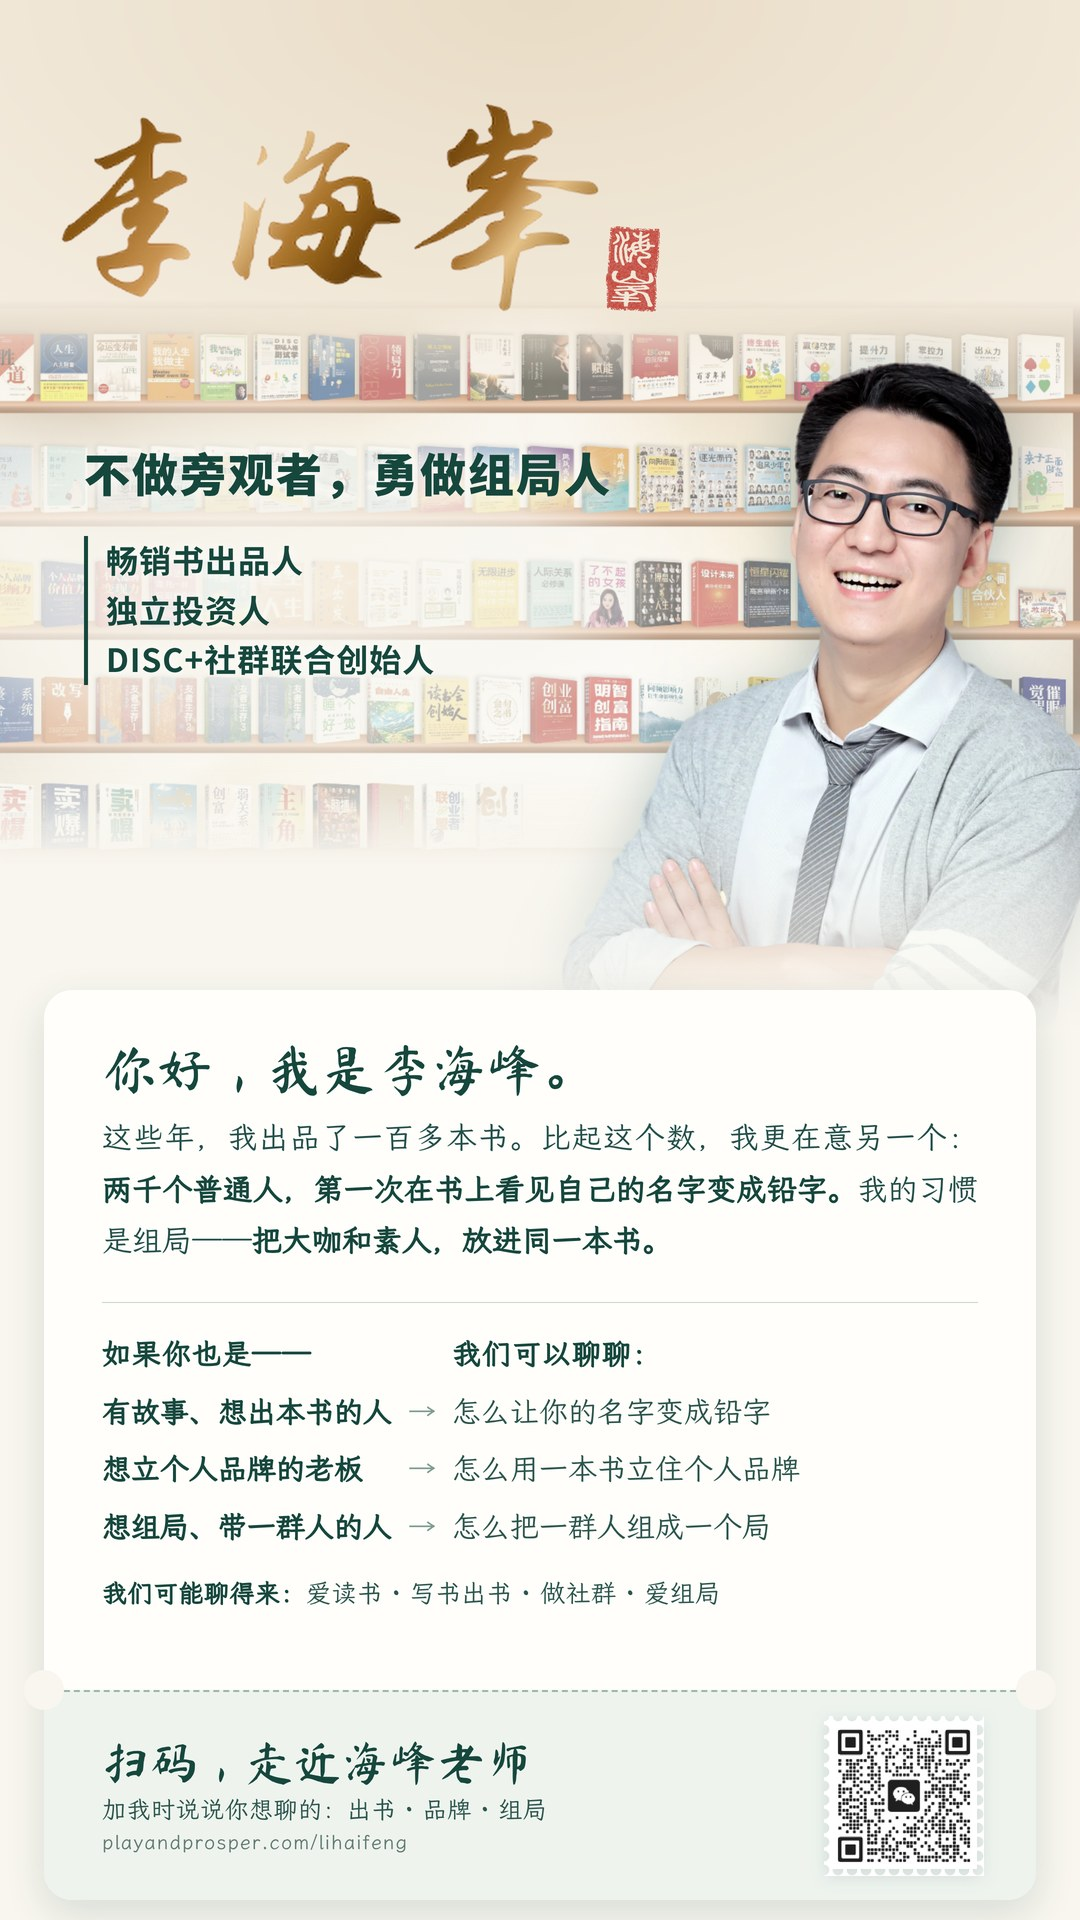
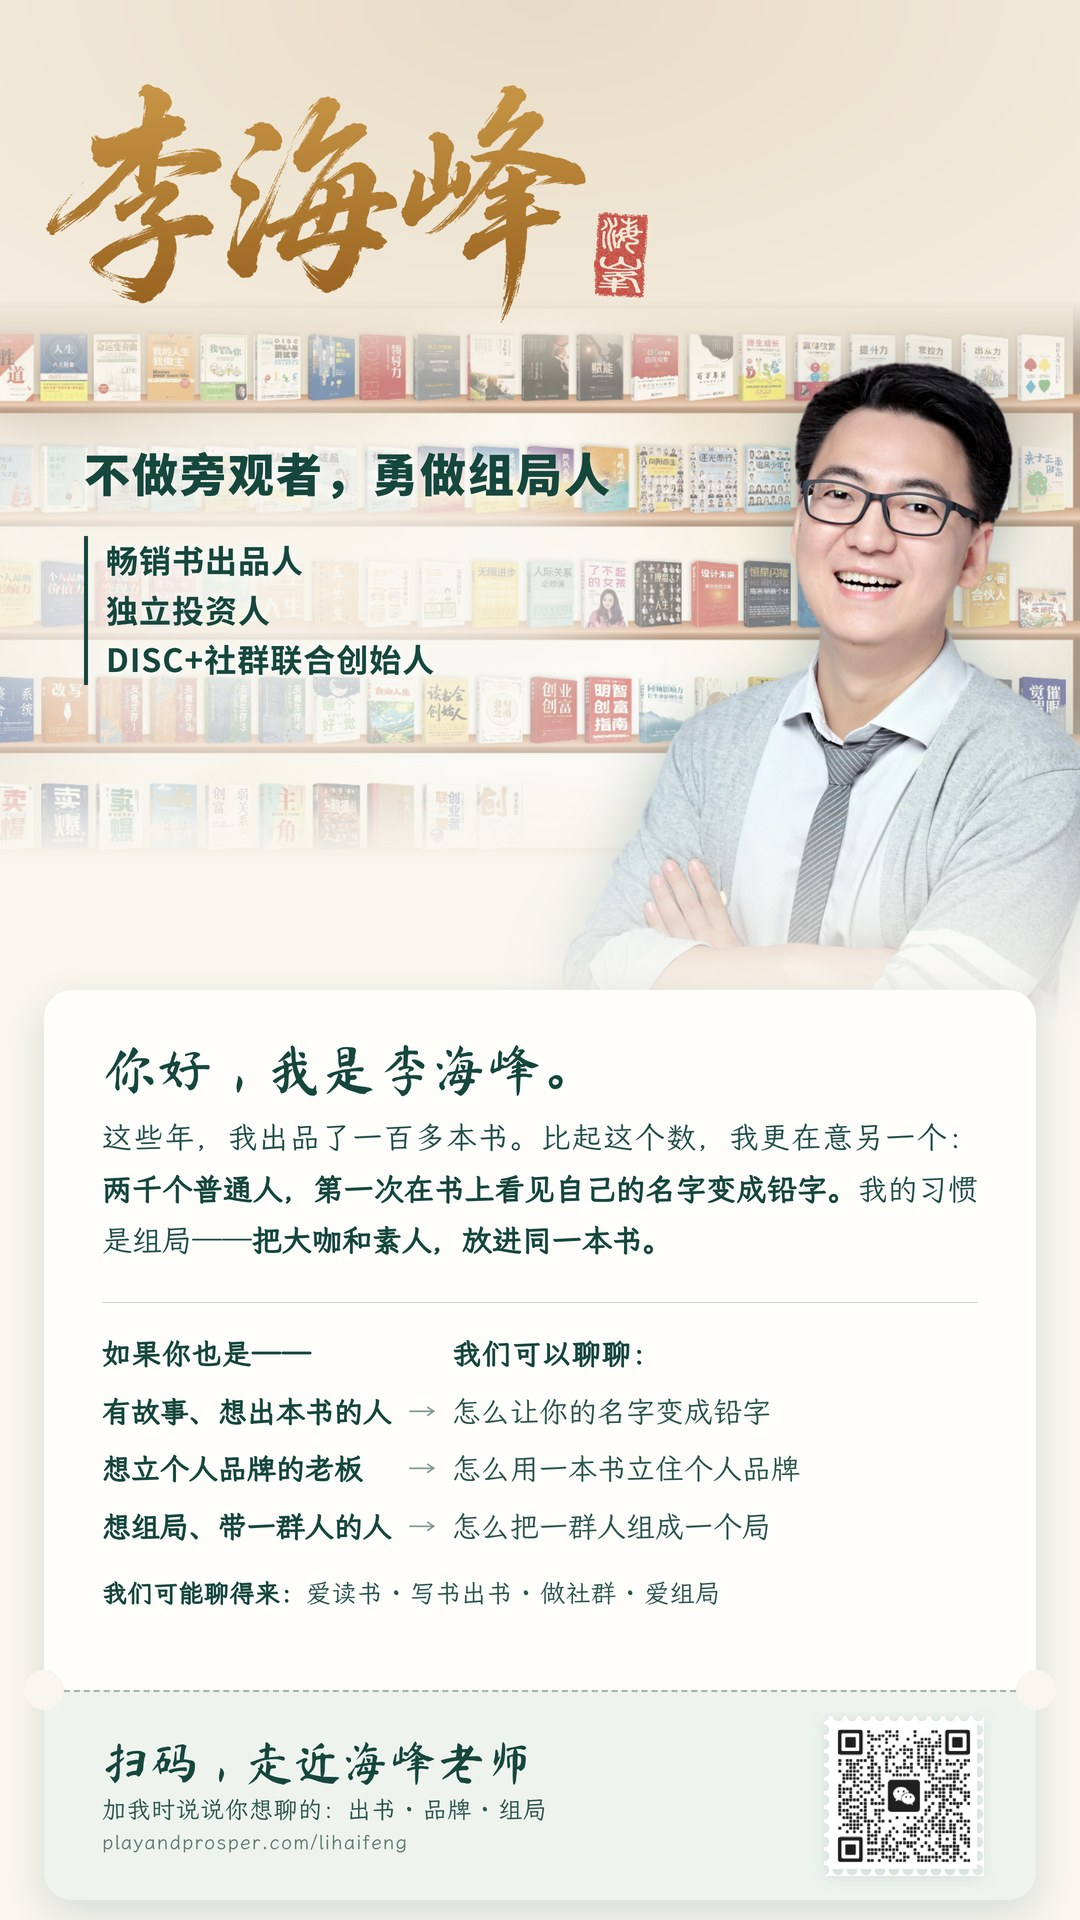
海峰老师主页：书法名字换成「峰」左山右夆的新写法（第一屏、页脚落款），人生卡和个人名片换成千百合 11-20 改字后的新版
Claude-Session: https://claude.ai/code/session_01BfepyGSHVDQz4j4958TxbY

Changed region(s): [[0.0306, 0.0312, 0.6111, 0.1875]]

diff --git a/v2/lihaifeng/index.html b/v2/lihaifeng/index.html
@@ -504,7 +504,7 @@ h2 em{display:inline-block}
   <div class="w in">
     <div class="txt">
       <div class="k">边玩边赚书系 · 出品人 · 主编</div>
-      <div class="nm"><img class="n" src="name2.png" alt="李海峰"><img class="s" src="seal2.png" alt=""></div>
+      <div class="nm"><img class="n" src="name3.png" alt="李海峰"><img class="s" src="seal2.png" alt=""></div>
       <div class="en">LI HAIFENG</div>
       <h1>出品了<em>一百多本书</em><span style="white-space:nowrap">的主编</span></h1>
       <p class="sub">一百多本书，是他的作品。<br>两千个第一次出书的人，是他更在意的事。</p>
@@ -736,11 +736,11 @@ h2 em{display:inline-block}
     <div class="kick rv"><i class="yin">陆</i>带走一张他</div>
     <h2 class="rv">人生卡，和一张<em>名片</em></h2>
     <div class="g2">
-      <figure class="tk rv"><span class="tag">入场券 №书4-00</span><div class="in" data-big="card.jpg?v=20261120d"><img src="card.jpg?v=20261120d" alt="李海峰的人生卡：今天遇见谁，你怎么活，世界就怎么记住你" loading="lazy" width="1080" height="1920"></div><figcaption><b>人生卡</b>书四 · 序：先活，再被记住</figcaption></figure>
-      <figure class="tk rv" style="--r:3deg"><div class="in" data-big="intro.jpg?v=20261120c"><img src="intro.jpg?v=20261120c" alt="李海峰的个人名片：不做旁观者，勇做组局人" loading="lazy" width="1080" height="1920"></div><figcaption><b>个人名片</b>不做旁观者，勇做组局人</figcaption></figure>
+      <figure class="tk rv"><span class="tag">入场券 №书4-00</span><div class="in" data-big="card.jpg?v=20261121"><img src="card.jpg?v=20261121" alt="李海峰的人生卡：今天遇见谁，你怎么活，世界就怎么记住你" loading="lazy" width="1080" height="1920"></div><figcaption><b>人生卡</b>书四 · 序：先活，再被记住</figcaption></figure>
+      <figure class="tk rv" style="--r:3deg"><div class="in" data-big="intro.jpg?v=20261121"><img src="intro.jpg?v=20261121" alt="李海峰的个人名片：不做旁观者，勇做组局人" loading="lazy" width="1080" height="1920"></div><figcaption><b>个人名片</b>不做旁观者，勇做组局人</figcaption></figure>
     </div>
     <h3 class="rv" style="text-align:center">转给一个正在想“要不要出书”的朋友</h3>
-    <div class="dl rv" style="justify-content:center"><a href="card.jpg?v=20261120d" download="李海峰-人生卡.jpg">保存人生卡</a><a href="intro.jpg?v=20261120c" download="李海峰-个人名片.jpg">保存个人名片</a></div>
+    <div class="dl rv" style="justify-content:center"><a href="card.jpg?v=20261121" download="李海峰-人生卡.jpg">保存人生卡</a><a href="intro.jpg?v=20261121" download="李海峰-个人名片.jpg">保存个人名片</a></div>
   </div>
 </section>
 
@@ -773,7 +773,7 @@ h2 em{display:inline-block}
 </section>
 
 <footer>
-  <div class="sign"><img src="name2.png" alt="李海峰" loading="lazy"><img src="seal2.png" alt="" loading="lazy"></div>
+  <div class="sign"><img src="name3.png" alt="李海峰" loading="lazy"><img src="seal2.png" alt="" loading="lazy"></div>
   <p class="motto">不做旁观者，勇做组局人。</p>
   <a href="../">边玩边赚</a> · 边玩边赚书系出品人、主编 · playandprosper.com/lihaifeng<br>
   <a class="you" href="../#forest">去作者雨林，看看其他的树 →</a>
